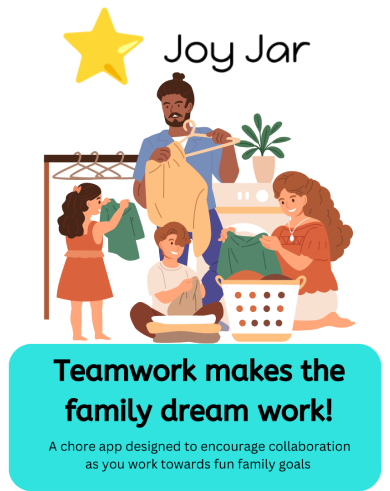
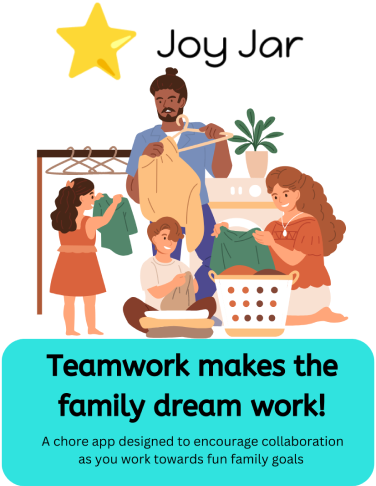
cropped mobile header image
changed to 75vh

diff --git a/index.html b/index.html
@@ -13,7 +13,7 @@
             <img src="images/desktop-header.gif" width=1100px alt="family cleaning">
         </div>
         <div class="mobile-header">
-        <img src="images/mobile-header.png" width="390px" alt="family cleaning">
+        <img src="images/mobile-header.png" alt="family cleaning">
         </div>
         
         <!--CARD SECTION-->

diff --git a/style.css b/style.css
@@ -30,6 +30,11 @@ font-family: 'ABeeZee';font-size: 44px;
     background-color:#f9f5f2;
     justify-content: center;
     padding: 24px;
+    
+}
+
+.mobile-header img {
+    min-height: 75vh;
 }
 
 @media (min-width:1172px) {
